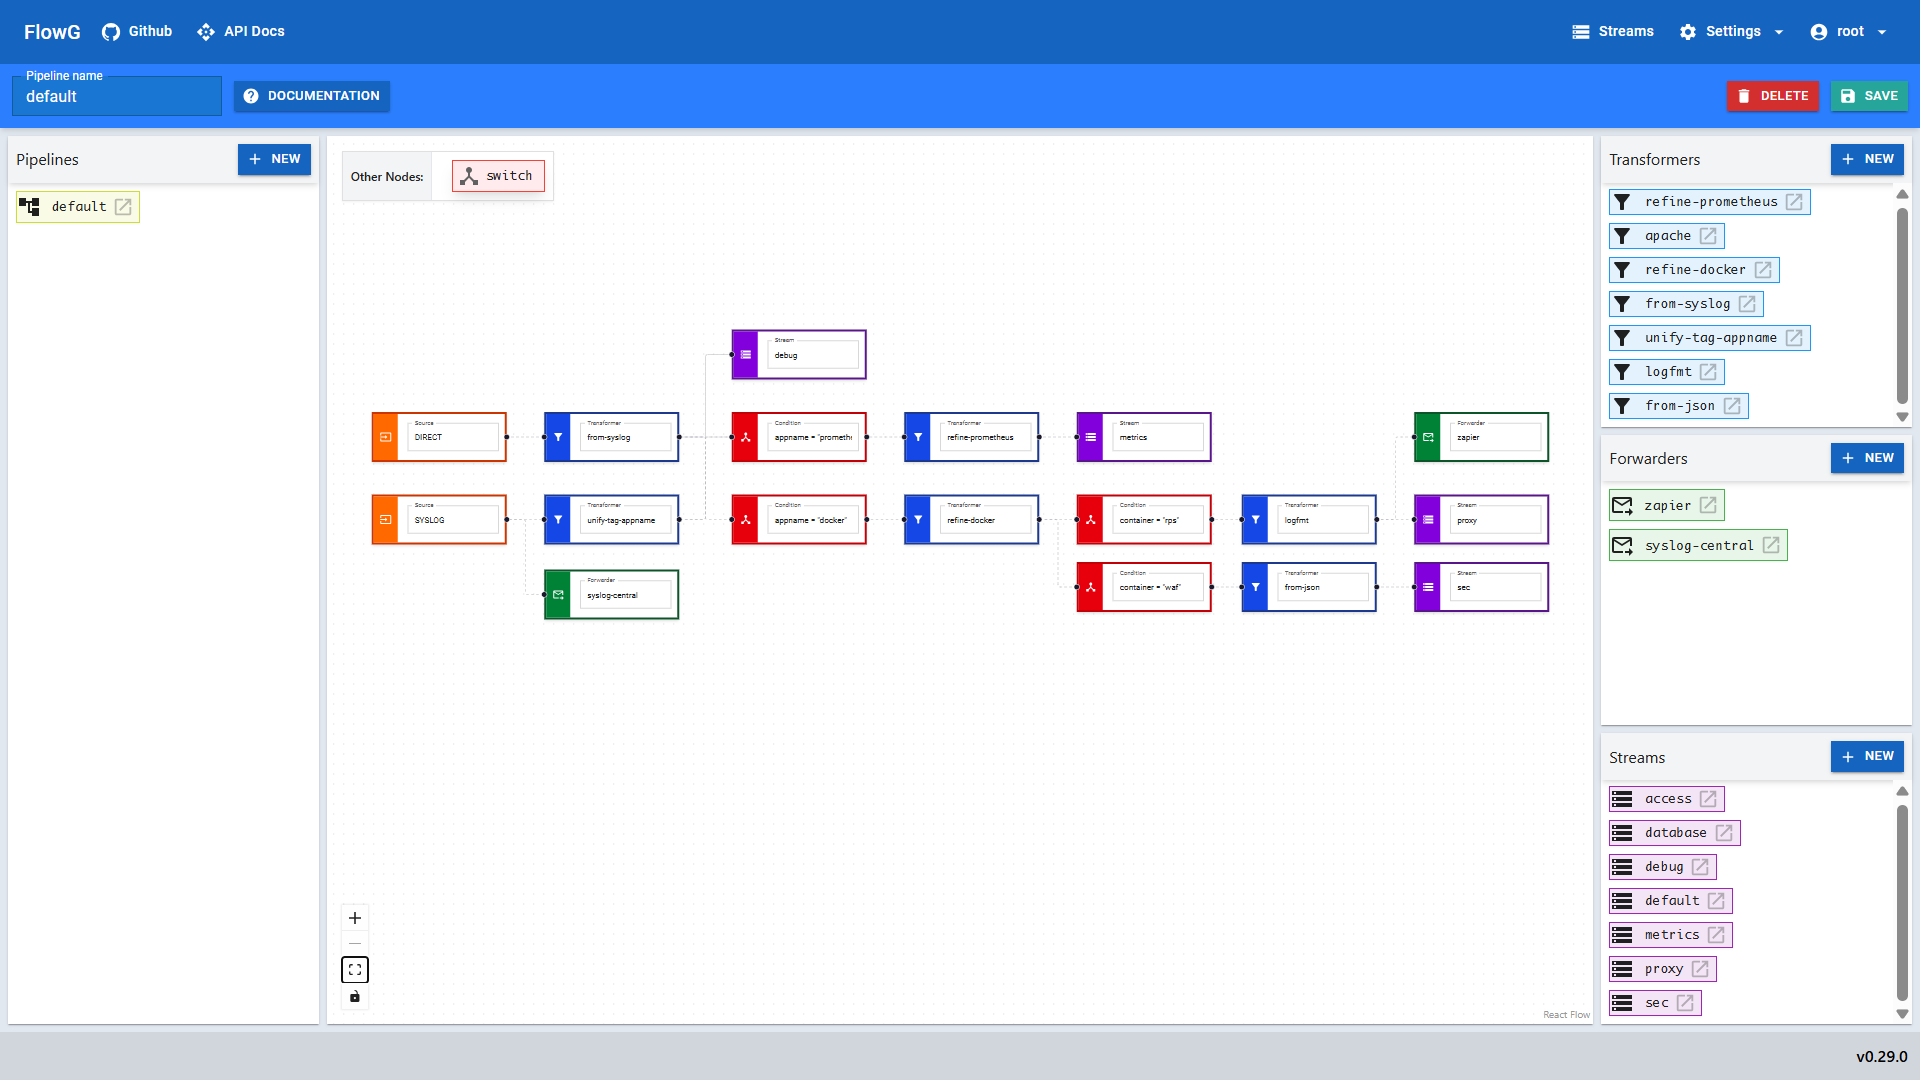
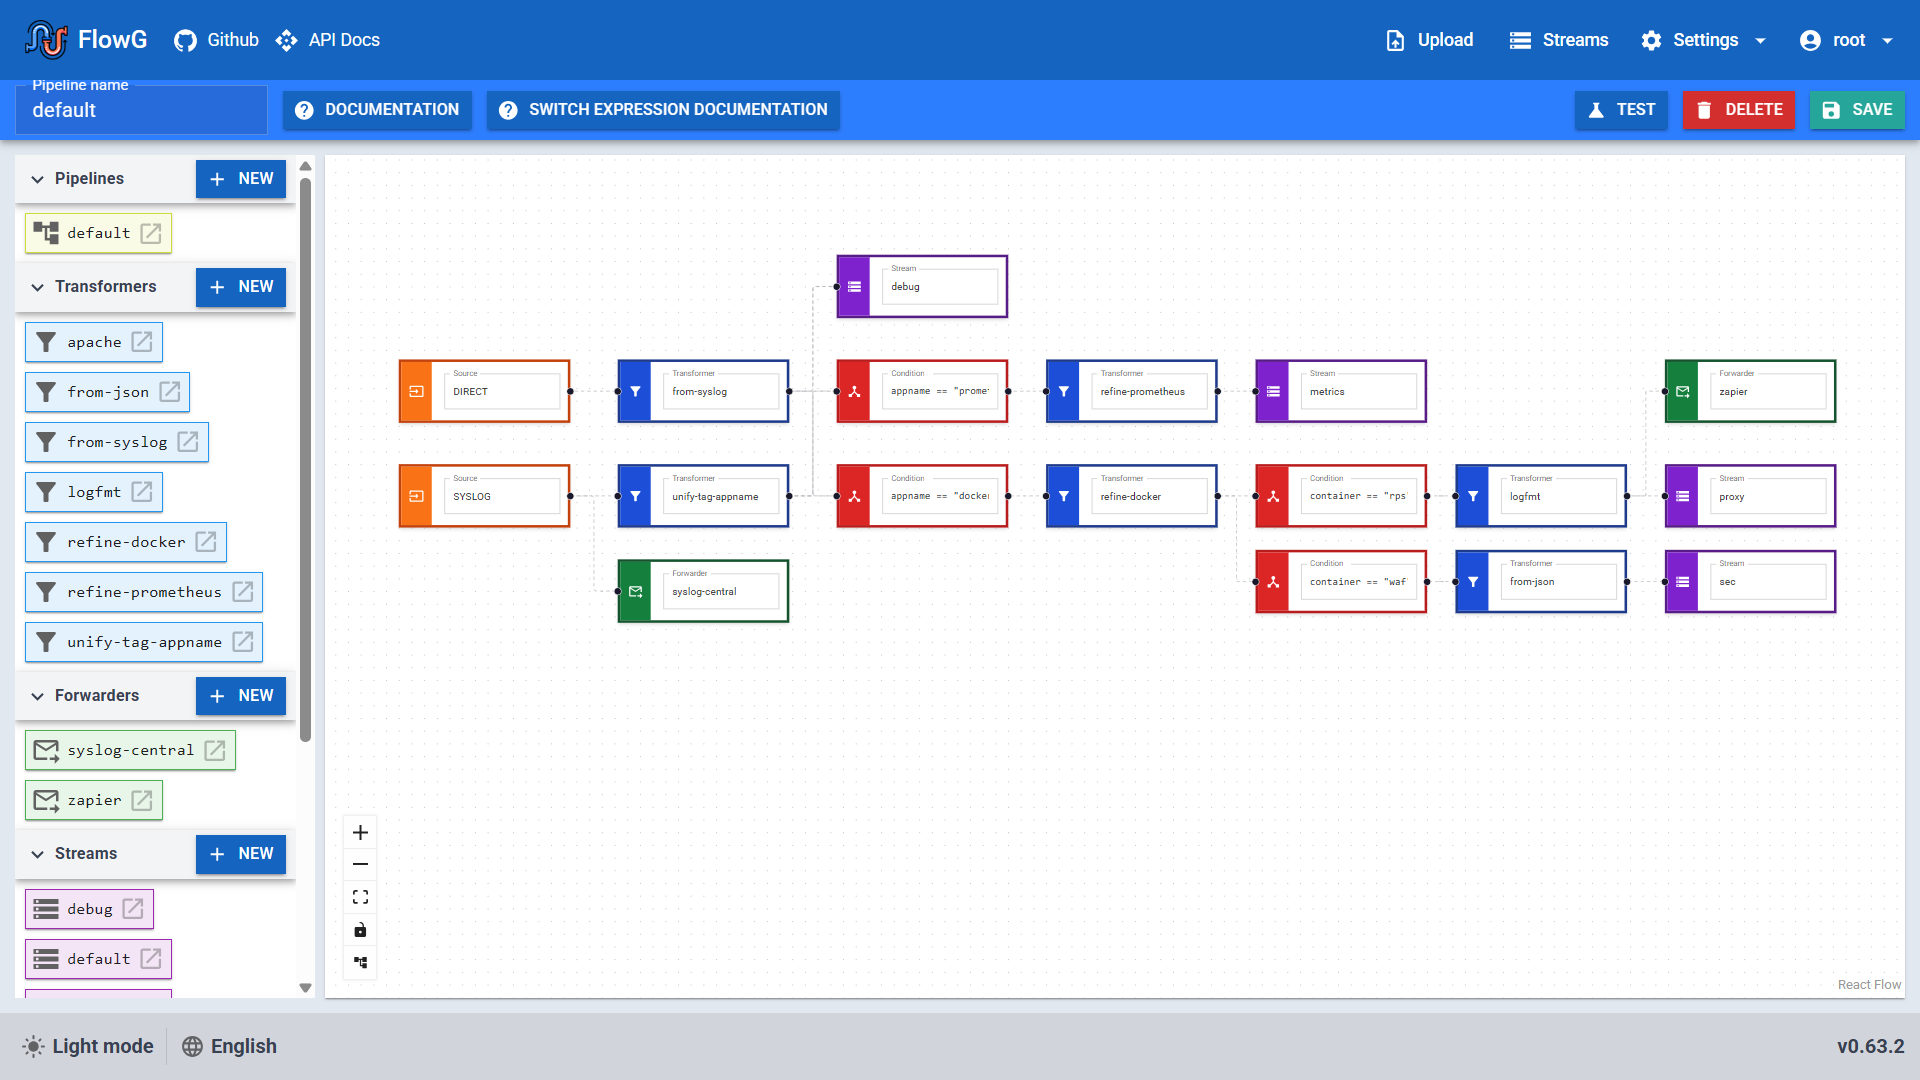
:memo: update screenshot and link to docs in README

Changed region(s): [[0.0, 0.0, 1.0, 1.0]]

diff --git a/README.md b/README.md
@@ -16,7 +16,7 @@ requiring predefined schemas and relies on
 [BadgerDB](https://github.com/dgraph-io/badger) as its storage backend.
 
 For more information, consult the
-[documentation](https://docs.flowg.cloud).
+[documentation](https://flowg.cloud/docs).
 
 You wish to contribute? Please read our [guidelines](./CONTRIBUTING.md) first.
 
@@ -136,7 +136,7 @@ docker run \
 
 **:warning: EXPERIMENTAL :warning:** Using Kubernetes (and Helm):
 
-- **Single-node version**: *BeaverDB, StatefulSet with 1 replicas*, ideal for homelabs and small clusters 
+- **Single-node version**: *BeaverDB, StatefulSet with 1 replicas*, ideal for homelabs and small clusters
 
 ```bash
 helm install flowg ./k8s/charts/flowg-singlenode -n flowg-system --create-namespace
